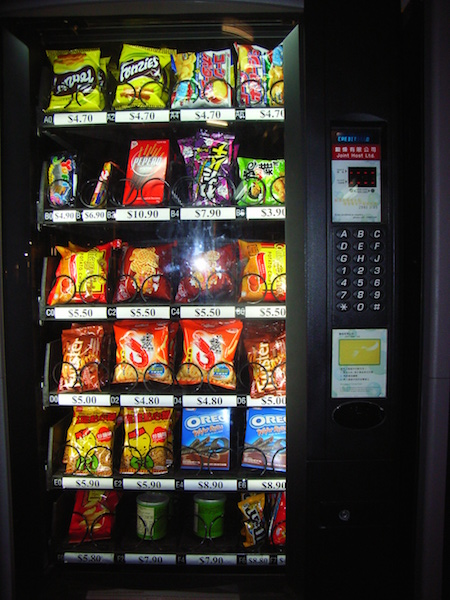
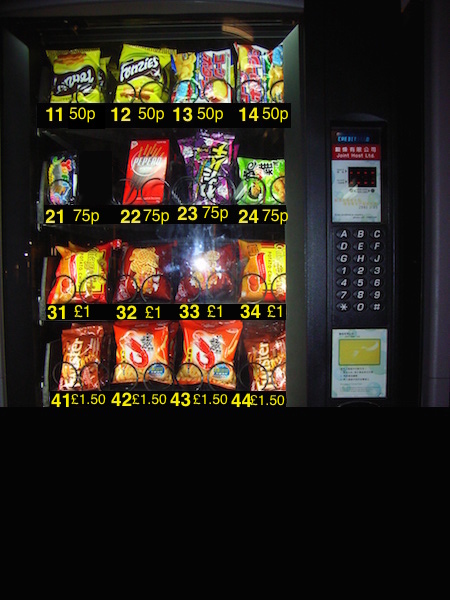
Change-making implemented

diff --git a/VendingMachineModel.java b/VendingMachineModel.java
@@ -24,10 +24,10 @@ public class VendingMachineModel {
 									41, 42, 43, 44};
 
 	private int[] changeRemaining;
-	private int[] change = {1, 2, 5, 10, 20, 50, 100, 200};
+	public int[] change = {1, 2, 5, 10, 20, 50, 100, 200};
 
 
-	private int getPositionOfCoin(int coin){
+	public int getPositionOfCoin(int coin){
 		//to find out how many 2p pieces we have left
 		//we need to find which index of the array "changeRemaining"
 		//refers to 2p pieces.
@@ -37,8 +37,42 @@ public class VendingMachineModel {
 		return Arrays.binarySearch(change, coin);
 	}
 
-	private int getPositionOfProduct(int product){
+	public int getPositionOfProduct(int product){
 		return Arrays.binarySearch(productNumbers, product);
+	}
+
+
+//---------------------------------------------------------------------------------------------
+// 							Setting up THE MACHINE.
+//---------------------------------------------------------------------------------------------
+	public void initialMachineStock(int[] changeInserted, int[] productsInserted){
+		changeRemaining = changeInserted;
+		products = new Product[productsInserted.length];
+
+		for(int i=0; i<productsInserted.length; i++){
+			//initial prices are 0, prices set separately afterwards.
+			products[i] = new Product(Integer.toString(productNumbers[i]), 0, productsInserted[i]);
+		}
+	}
+
+	public void setMachinePrices(int[] prices){
+		for(int i=0; i<productNumbers.length; i++){
+			Product item = products[i];
+			products[i] = new Product(item.name, prices[i], item.stockLeft);
+		}
+	}
+
+	public void reloadMachineChange(int[] changeInserted){
+		for(int i=0; i<change.length; i++){
+			changeRemaining[i]+=changeInserted[i];
+		}
+	}
+
+	public void reloadMachineProducts(int[] productsInserted){
+		for(int i=0; i<productNumbers.length; i++){
+			Product item = products[i];
+			products[i] = new Product(item.name, item.price, item.stockLeft + productsInserted[i]);
+		}
 	}
 
 
@@ -62,9 +96,9 @@ public class VendingMachineModel {
 	}
 
 	public int[] returnCredit(){
-		int[] toReturn = New int[change.length];
+		int[] toReturn = new int[change.length];
 
-		for(int i = change.length; currentCredit>0||i>=0;i--){
+		for(int i = change.length-1; currentCredit>0||i>=0;i--){
 			while(changeRemaining[i]>0 && change[i]<=currentCredit){
 				toReturn[i]++;
 				currentCredit-=change[i];
@@ -76,36 +110,6 @@ public class VendingMachineModel {
 
 
 
-//---------------------------------------------------------------------------------------------
-// 							Setting up THE MACHINE.
-//---------------------------------------------------------------------------------------------
-	public void initialMachineStock(int[] changeInserted, int[] productsInserted){
-		changeRemaining = changeInserted;
 
-		for(int i=0; i<productNumbers.length; i++){
-			//initial prices are 0, prices set separately afterwards.
-			products[i] = new Product(Integer.toString(productNumbers[i]), 0, productsInserted[i]);
-		}
-
-	}
-
-	public void reloadMachineChange(int[] changeInserted){
-
-	}
-
-	public void reloadMachineProducts(int[] productsInserted){
-		for(int i=0; i<productNumbers.length; i++){
-			Product item = products[i];
-			products[i] = new Product(item.name, item.prices, item.stockLeft + productsInserted[i]);
-		}
-	}
-
-
-	public void setMachinePrices(int[] prices){
-		for(int i=0; i<productNumbers.length; i++){
-			Product item = products[i];
-			products[i] = new Product(item.name, prices[i], item.stockLeft);
-		}
-	}
 
 }

diff --git a/VendingMachineController.java b/VendingMachineController.java
@@ -4,20 +4,62 @@ public class VendingMachineController {
 
 	private VendingMachineViewInterface view;
 	private VendingMachineModel model;
+
 	public VendingMachineController(VendingMachineViewInterface view){
 		this.view = view;
 		model = new VendingMachineModel();
 	}
 
+
+
+//---------------------------------------------------------------------------------------------
+// 							Loading Machine Stock
+//---------------------------------------------------------------------------------------------
+
+
+    public void populateMachine(){
+		//Initially 10pounds worth of each coin
+		int[] coins = {1000, 500, 200, 100, 50, 20, 10, 5};
+
+		//Initially 10 of each item. 20 of the cheap itmes
+		int[] products = {20, 20, 20, 20,
+						10, 10, 10, 10,
+						10, 10, 10, 10,
+						10, 10, 10, 10};
+
+		model.initialMachineStock(coins, products);
+
+
+		//Pricing is done by row in the machine
+		int[] productPrices = {50, 50, 50, 50,
+							75, 75, 75, 75,
+							100, 100, 100, 100,
+							150, 150, 150, 150};
+
+		model.setMachinePrices(productPrices);
+    }
+
+
+
+
+
+//---------------------------------------------------------------------------------------------
+// 							Choosing an item
+//---------------------------------------------------------------------------------------------
+
 	// public  Boolean coinInserted(Coin coin);
 	public Boolean coinInserted(int coinVal){
 		model.addCredit(coinVal);
+		updateScreenWithCurrentCredit();
+		return true;
+	}
+
+	private void updateScreenWithCurrentCredit(){
 		int credit = model.currentCredit();
 
 		double value = credit / 100.0;
-	    DecimalFormat df = new DecimalFormat("#.00");
+		DecimalFormat df = new DecimalFormat("#0.00");
 		this.view.UpdateScreen("\u00A3"+df.format(value));
-		return true;
 	}
 
 
@@ -27,7 +69,41 @@ public class VendingMachineController {
 		return true;
 	}
 
-	public int[] coinReturnPressed(){
-		return model.returnCredit();
+
+//---------------------------------------------------------------------------------------------
+// 							Returning Change
+//---------------------------------------------------------------------------------------------
+
+	public String coinReturnPressed(){
+
+		int[] change = model.returnCredit();
+
+		String changeStr = "";
+		int totalReturn = 0;
+		for(int i = 0; i<model.change.length; i++ ){
+			int noOfThisCoin = change[i];
+			if(noOfThisCoin>0){
+				int thisCoin = model.change[i];
+				int val = noOfThisCoin * thisCoin;
+
+				totalReturn += val;
+				if(thisCoin<100){
+					changeStr += Integer.toString(noOfThisCoin) + " x " + thisCoin+ "p.\n";
+				}
+
+				else{
+					changeStr += Integer.toString(noOfThisCoin) + " x \u00A3" + thisCoin/100+ "\n";
+				}
+			}
+		}
+
+
+		double value = totalReturn / 100.0;
+	    DecimalFormat df = new DecimalFormat("#0.00");
+		changeStr+="total = " + "\u00A3" + df.format(value);
+
+		updateScreenWithCurrentCredit();
+		return changeStr;
 	}
+
 }

diff --git a/VendingMachineView.java b/VendingMachineView.java
@@ -28,14 +28,11 @@ public final class VendingMachineView extends JPanel implements ActionListener, 
     public static void main(String... aArgs){
         VendingMachineView app = new VendingMachineView();
         controller = new VendingMachineController(app);
-        populateMachine();
+        controller.populateMachine();
 
         app.buildAndDisplayGui();
     }
 
-    private static void populateMachine(){
-
-    }
 
 
 
@@ -73,7 +70,7 @@ public final class VendingMachineView extends JPanel implements ActionListener, 
 
 JLabel screen;
 private void addScreen(JPanel panel){
-    screen = new JLabel("Goodday. Vending machine is ready to vend.");
+    screen = new JLabel("Vending machine is ready.");
     screen.setBorder(BorderFactory.createLineBorder(Color.black, 2));
     panel.add(screen);
 }
@@ -167,8 +164,8 @@ public void actionPerformed(ActionEvent e) {
     coinReturn.addActionListener(new ActionListener() {
             public void actionPerformed(ActionEvent e)
             {
-                int[] change = controller.coinReturnPressed();
-                System.out.println("Returning these coins");
+                String change = controller.coinReturnPressed();
+                JOptionPane.showMessageDialog(null, "Returning these coins:\n"+ change);
             }
         });
     panel.add(coinReturn);

diff --git a/todo.md b/todo.md
@@ -1,5 +1,14 @@
 Todo:
 =====
+The initial loading of the machine should be similar to how one loads an actual machine.
+Coin by coin, product by product. Should be done in the view.
+
+
+On selection of item:
+	if(sufficient credit in machine) purchase item;
+
+	If it's out of stock - return price and out of stock
+	else return price.
 
 
 Coins with picture background.
